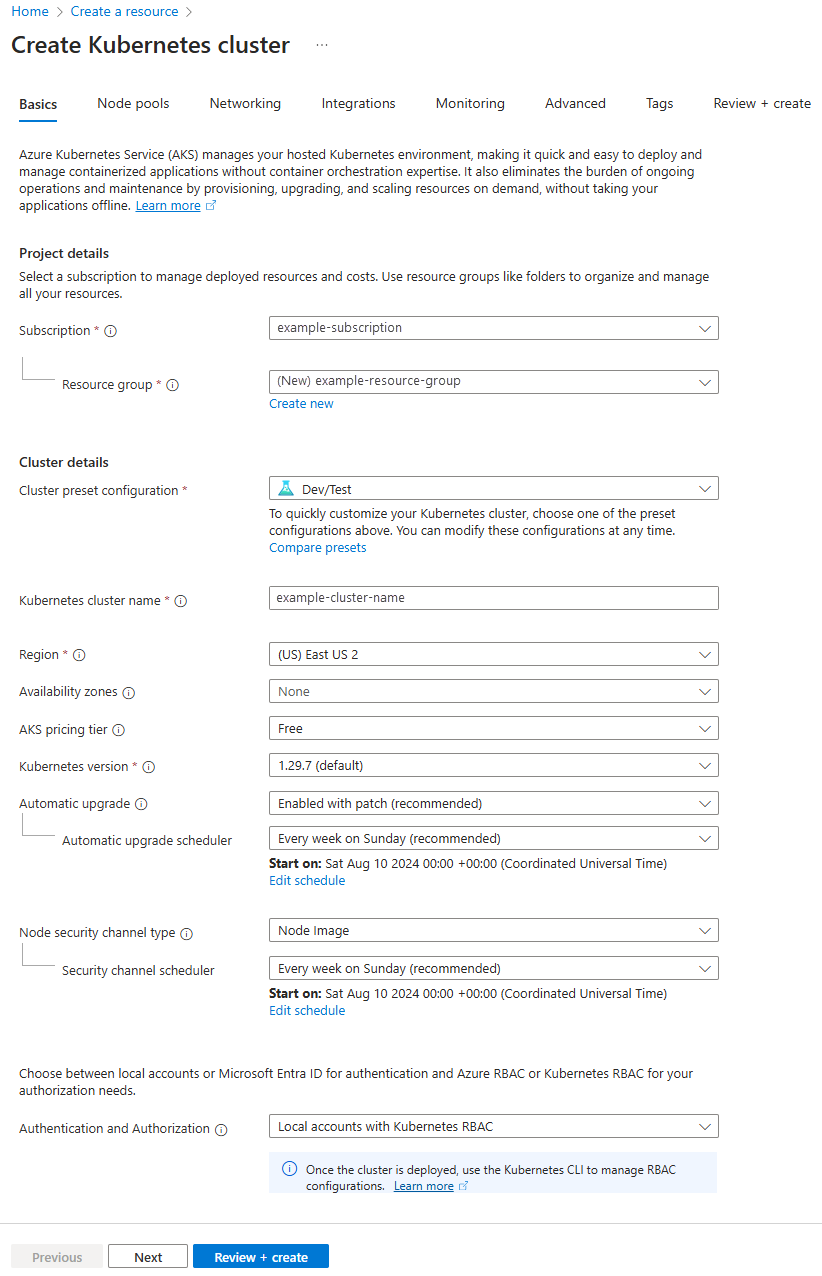
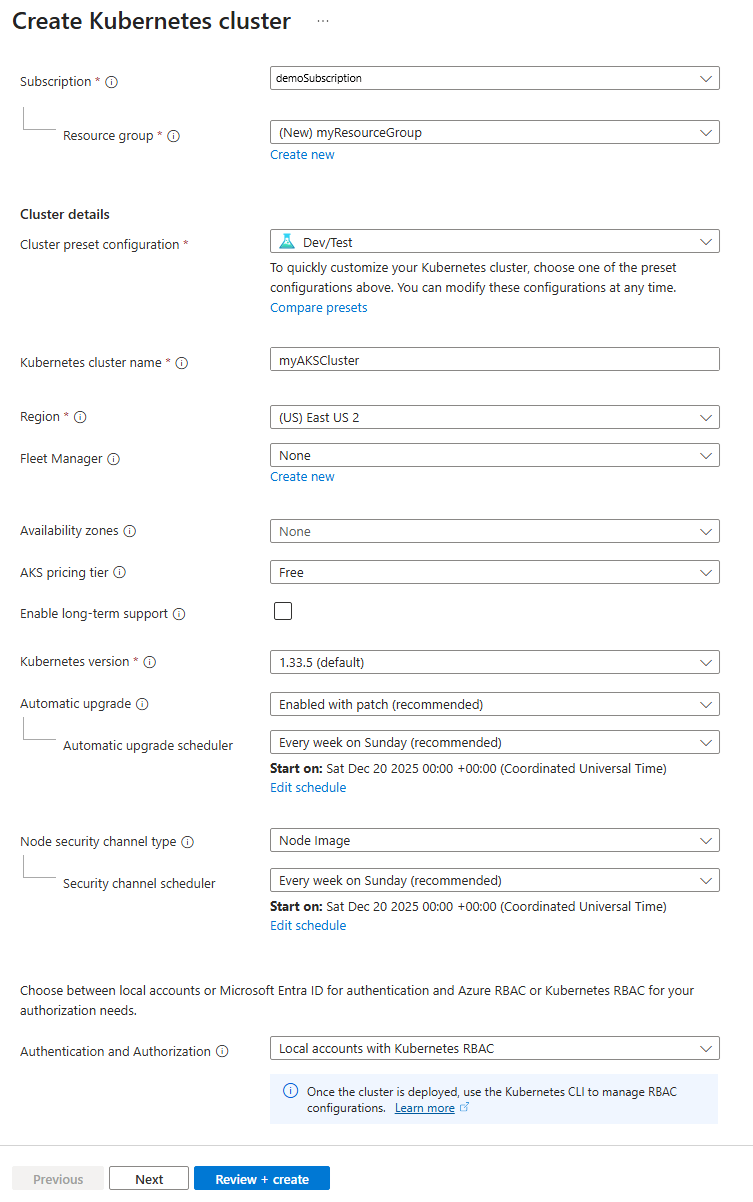
updates content and images

diff --git a/articles/aks/auto-upgrade-cluster.md b/articles/aks/auto-upgrade-cluster.md
@@ -5,7 +5,7 @@ ms.topic: how-to
 ms.author: davidsmatlak
 author: davidsmatlak
 ms.subservice: aks-upgrade
-ms.date: 04/06/2025
+ms.date: 12/19/2025
 ms.custom: aks-upgrade, automation, innovation-engine
 # Customer intent: "As a DevOps engineer, I want to enable automatic upgrades for my Kubernetes clusters, so that I can ensure my environment remains secure and up to date without manual intervention."
 ---
@@ -15,7 +15,7 @@ ms.custom: aks-upgrade, automation, innovation-engine
 > [!div class="nextstepaction"]
 > [Deploy and Explore](https://go.microsoft.com/fwlink/?linkid=2321740)
 
-Part of the AKS cluster lifecycle involves performing periodic upgrades to the latest Kubernetes version. It’s important you apply the latest security releases or upgrade to get the latest features. Before learning about auto-upgrade, make sure you understand the [AKS cluster upgrade fundamentals][upgrade-aks-cluster].
+Part of the AKS cluster lifecycle involves performing periodic upgrades to the latest Kubernetes version. It's important you apply the latest security releases or upgrade to get the latest features. Before learning about auto-upgrade, make sure you understand the [AKS cluster upgrade fundamentals][upgrade-aks-cluster].
 
 > [!NOTE]
 > Any upgrade operation, whether performed manually or automatically, upgrades the node image version if it's not already on the latest version. The latest version is contingent on a full AKS release and can be determined by visiting the [AKS release tracker][release-tracker].
@@ -36,7 +36,7 @@ AKS also initiates auto-upgrades for unsupported clusters. When a cluster in an 
 
 ## Cluster auto-upgrade limitations
 
-If you’re using cluster auto-upgrade, you can no longer upgrade the control plane first, and then upgrade the individual node pools. Cluster auto-upgrade always upgrades the control plane and the node pools together. You can't upgrade the control plane only. Running the `az aks upgrade --control-plane-only` command raises the following error: `NotAllAgentPoolOrchestratorVersionSpecifiedAndUnchanged: Using managed cluster api, all Agent pools' OrchestratorVersion must be all specified or all unspecified. If all specified, they must be stay unchanged or the same with control plane.`
+If you're using cluster auto-upgrade, you can no longer upgrade the control plane first, and then upgrade the individual node pools. Cluster auto-upgrade always upgrades the control plane and the node pools together. You can't upgrade the control plane only. Running the `az aks upgrade --control-plane-only` command raises the following error: `NotAllAgentPoolOrchestratorVersionSpecifiedAndUnchanged: Using managed cluster api, all Agent pools' OrchestratorVersion must be all specified or all unspecified. If all specified, they must be stay unchanged or the same with control plane.`
 
 If using the `node-image` (legacy and not to be used) cluster auto-upgrade channel or the `NodeImage` node image auto-upgrade channel, Linux [unattended upgrades][unattended-upgrades] are disabled by default.
 
@@ -52,29 +52,29 @@ The following upgrade channels are available:
 | `patch`| automatically upgrades the cluster to the latest supported patch version when it becomes available while keeping the minor version the same.| For example, if a cluster runs version *1.17.7*, and versions *1.17.9*, *1.18.4*, *1.18.6*, and *1.19.1* are available, the cluster upgrades to *1.17.9*.|
 | `stable`| automatically upgrades the cluster to the latest supported patch release on minor version *N-1*, where *N* is the latest supported minor version.| For example, if a cluster runs version *1.17.7* and versions *1.17.9*, *1.18.4*, *1.18.6*, and *1.19.1* are available, the cluster upgrades to *1.18.6*.|
 | `rapid`| automatically upgrades the cluster to the latest supported patch release on the latest supported minor version.| In cases where the cluster's Kubernetes version is an *N-2* minor version, where *N* is the latest supported minor version, the cluster first upgrades to the latest supported patch version on *N-1* minor version. For example, if a cluster runs version *1.17.7* and versions *1.17.9*, *1.18.4*, *1.18.6*, and *1.19.1* are available, the cluster first upgrades to *1.18.6*, then upgrades to *1.19.1*.|
-| `node-image`(legacy)| automatically upgrades the node image to the latest version available.| Microsoft provides patches and new images for image nodes frequently (usually weekly), but your running nodes don't get the new images unless you do a node image upgrade. Turning on the node-image channel automatically updates your node images whenever a new version is available. If you use this channel, Linux [unattended upgrades] are disabled by default. Node image upgrades work on patch versions that are deprecated, so long as the minor Kubernetes version is still supported. This channel is no longer recommended and is planned for deprecation in future. For an option that can automatically upgrade node images, see the `NodeImage` channel in [node image auto-upgrade][node-image-auto-upgrade]. |
+| `node-image`(legacy)| automatically upgrades the node image to the latest version available.| Microsoft provides patches and new images for image nodes frequently (weekly), but your running nodes don't get the new images unless you do a node image upgrade. Turning on the node-image channel automatically updates your node images whenever a new version is available. If you use this channel, Linux [unattended upgrades] are disabled by default. Node image upgrades work on patch versions that are deprecated, so long as the minor Kubernetes version is still supported. This channel is no longer recommended and is planned for deprecation in future. For an option that can automatically upgrade node images, see the `NodeImage` channel in [node image auto-upgrade][node-image-auto-upgrade]. |
 
 > [!NOTE]
 >
 > Keep the following information in mind when using cluster auto-upgrade:
 >
-> * Cluster auto-upgrade only updates to GA versions of Kubernetes and doesn't update to preview versions.
+> - Cluster auto-upgrade only updates to GA versions of Kubernetes and doesn't update to preview versions.
 >
-> * With AKS, you can create a cluster without specifying the exact patch version. When you create a cluster without designating a patch, the cluster runs the minor version's latest GA patch. To learn more, see [AKS support window][supported-kubernetes-versions].
+> - With AKS, you can create a cluster without specifying the exact patch version. When you create a cluster without designating a patch, the cluster runs the minor version's latest GA patch. To learn more, see [AKS support window][supported-kubernetes-versions].
 >
-> * Auto-upgrade requires the cluster's Kubernetes version to be within the [AKS support window][supported-kubernetes-versions], even if using the `node-image` channel.
+> - Auto-upgrade requires the cluster's Kubernetes version to be within the [AKS support window][supported-kubernetes-versions], even if using the `node-image` channel.
 >
-> * If you're using the preview API `11-02-preview` or later, and you select the `node-image` cluster auto-upgrade channel, the [node image auto-upgrade channel][node-image-auto-upgrade] automatically sets to `NodeImage`.
+> - If you're using the preview API `11-02-preview` or later, and you select the `node-image` cluster auto-upgrade channel, the [node image auto-upgrade channel][node-image-auto-upgrade] automatically sets to `NodeImage`.
 >
-> * Each cluster can only be associated with a single auto-upgrade channel. This is because your specified channel determines the Kubernetes version that runs on the cluster.
->   
-> * If your cluster has no auto-upgrade channel and you enable it for LTS *(Long-Term Support)*, it will default to a `patch` auto-upgrade channel.
+> - Each cluster can only be associated with a single auto-upgrade channel. The reason is because your specified channel determines the Kubernetes version that runs on the cluster.
+>
+> - If your cluster has no auto-upgrade channel and you enable it for Long-Term Support (LTS), the cluster defaults to a `patch` auto-upgrade channel.
 
 ## Use cluster auto-upgrade with a new AKS cluster
 
 ### [Azure CLI](#tab/azure-cli)
 
-* Set the auto-upgrade channel when creating a new cluster using the [`az aks create`][az-aks-create] command and the `auto-upgrade-channel` parameter.
+Set the auto-upgrade channel when creating a new cluster using the [`az aks create`][az-aks-create] command and the `auto-upgrade-channel` parameter.
 
 ```text
 export RANDOM_SUFFIX=$(openssl rand -hex 3)
@@ -86,11 +86,11 @@ az aks create --resource-group $RESOURCE_GROUP --name $AKS_CLUSTER_NAME --auto-u
 ### [Azure portal](#tab/azure-portal)
 
 1. In the Azure portal, select **Create a resource** > **Containers** > **Azure Kubernetes Service (AKS)**.
-2. In the **Basics** tab, under **Cluster details**, select the desired auto-upgrade channel from the **Automatic upgrade** dropdown. We recommend selecting the **Enabled with patch (recommended)** option.
+1. In the **Basics** tab, under **Cluster details**, select the desired auto-upgrade channel from the **Automatic upgrade** dropdown. We recommend selecting the **Enabled with patch (recommended)** option.
 
-    :::image type="content" source="./media/auto-upgrade-cluster/portal-autoupgrade-new-cluster.png" alt-text="The screenshot of the create blade for an AKS cluster in the Azure portal. The automatic upgrade field shows 'Enabled with patch (recommended)' selected.":::
+    :::image type="content" source="./media/auto-upgrade-cluster/portal-autoupgrade-new-cluster.png" alt-text="Screenshot of the automatic upgrade field that shows Enabled with patch (recommended) selected.":::
 
-3. Complete the remaining steps to create the cluster.
+1. To create the cluster, complete the remaining steps.
 
 ---
 
@@ -98,7 +98,7 @@ az aks create --resource-group $RESOURCE_GROUP --name $AKS_CLUSTER_NAME --auto-u
 
 ### [Azure CLI](#tab/azure-cli)
 
-* Set the auto-upgrade channel on an existing cluster using the [`az aks update`][az-aks-update] command with the `auto-upgrade-channel` parameter.
+Set the auto-upgrade channel on an existing cluster using the [`az aks update`][az-aks-update] command with the `auto-upgrade-channel` parameter.
 
 ```azurecli-interactive
 az aks update --resource-group $RESOURCE_GROUP --name $AKS_CLUSTER_NAME --auto-upgrade-channel stable
@@ -120,17 +120,17 @@ Results:
 
 ### [Azure portal](#tab/azure-portal)
 
-1. In the Azure portal, navigate to your AKS cluster.
-2. In the service menu, under **Settings**, select **Cluster configuration**.
-3. Under **Upgrade** > **Kubernetes version**, select **Upgrade version**.
+1. In the Azure portal, go to your AKS cluster.
+1. In the service menu, under **Settings**, select **Upgrades**.
+1. Under **Upgrade** > **Kubernetes version**, select **Upgrade version**.
 
-    :::image type="content" source="./media/auto-upgrade-cluster/portal-autoupgrade-existing-cluster.png" alt-text="The screenshot of the upgrade blade for an AKS cluster in the Azure portal.":::
+    :::image type="content" source="./media/auto-upgrade-cluster/portal-autoupgrade-existing-cluster.png" alt-text="Screenshot of the upgrade cluster page for an AKS cluster in the Azure portal.":::
 
-4. On the **Upgrade Kubernetes version** page, select the desired auto-upgrade channel from the **Automatic upgrade** dropdown. We recommend selecting the **Enabled with patch (recommended)** option.
+1. On the **Upgrade Kubernetes version** page, select the desired auto-upgrade channel from the **Automatic upgrade** dropdown. We recommend selecting the **Enabled with patch (recommended)** option.
 
-    :::image type="content" source="./media/auto-upgrade-cluster/portal-autoupgrade-upgrade-page-existing-cluster.png" alt-text="The screenshot of the Upgrade Kubernetes page for an AKS cluster in the Azure portal.":::
+    :::image type="content" source="./media/auto-upgrade-cluster/portal-autoupgrade-upgrade-page-existing-cluster.png" alt-text="Screenshot of the Upgrade Kubernetes version page for an AKS cluster in the Azure portal.":::
 
-5. Select **Save**.
+1. Select **Save**.
 
 ---
 
@@ -147,12 +147,12 @@ For more information on how to set a maintenance window with Planned Maintenance
 
 Use the following best practices to help maximize your success when using auto-upgrade:
 
-* To ensure your cluster is always in a supported version (i.e within the N-2 rule), choose either `stable` or `rapid` channels.
-* If you're interested in getting the latest patches as soon as possible, use the `patch` channel. The `node-image` channel is a good fit if you want your agent pools to always run the most recent node images.
-* To automatically upgrade node images while using a different cluster upgrade channel, consider using the [node image auto-upgrade][node-image-auto-upgrade] `NodeImage` channel.
-* Follow [Operator best practices][operator-best-practices-scheduler].
-* Follow [PDB best practices][pdb-best-practices].
-* For upgrade troubleshooting information, see the [AKS troubleshooting documentation][aks-troubleshoot-docs].
+- To ensure your cluster is always in a supported version, for example within the N-2 rule, choose either `stable` or `rapid` channels.
+- If you're interested in getting the latest patches as soon as possible, use the `patch` channel. The `node-image` channel is a good fit if you want your agent pools to always run the most recent node images.
+- To automatically upgrade node images while using a different cluster upgrade channel, consider using the [node image auto-upgrade][node-image-auto-upgrade] `NodeImage` channel.
+- Follow [Operator best practices][operator-best-practices-scheduler].
+- Follow [PodDisruptionBudget (PDB) best practices][pdb-best-practices].
+- For upgrade troubleshooting information, see the [AKS troubleshooting documentation][aks-troubleshoot-docs].
 
 For a detailed discussion of upgrade best practices and other considerations, see [AKS patch and upgrade guidance][upgrade-operators-guide].
 

diff --git a/articles/aks/learn/quick-kubernetes-deploy-portal.md b/articles/aks/learn/quick-kubernetes-deploy-portal.md
@@ -3,7 +3,7 @@ title: 'Quickstart: Deploy an Azure Kubernetes Service (AKS) cluster using the A
 titleSuffix: Azure Kubernetes Service
 description: Learn how to quickly deploy a Kubernetes cluster and deploy an application in Azure Kubernetes Service (AKS) using the Azure portal.
 ms.topic: quickstart
-ms.date: 05/13/2024
+ms.date: 12/19/2025
 ms.custom: mvc, mode-ui
 ms.author: schaffererin
 author: schaffererin
@@ -28,7 +28,7 @@ This quickstart assumes a basic understanding of Kubernetes concepts. For more i
 
 - [!INCLUDE [quickstarts-free-trial-note](~/reusable-content/ce-skilling/azure/includes/quickstarts-free-trial-note.md)]
 - If you're unfamiliar with the Azure Cloud Shell, review [Overview of Azure Cloud Shell](/azure/cloud-shell/overview).
-- Make sure that the identity you use to create your cluster has the appropriate minimum permissions. For more details on access and identity for AKS, see [Access and identity options for Azure Kubernetes Service (AKS)](../concepts-identity.md).
+- Make sure that the identity you use to create your cluster has the appropriate minimum permissions. For more information about access and identity for AKS, see [Access and identity options for Azure Kubernetes Service (AKS)](../concepts-identity.md).
 
 [!INCLUDE [azure linux 2.0 retirement](../includes/azure-linux-retirement.md)]
 
@@ -36,34 +36,34 @@ This quickstart assumes a basic understanding of Kubernetes concepts. For more i
 
 1. Sign in to the [Azure portal][azure-portal].
 1. On the Azure portal home page, select **Create a resource**.
-1. In the **Categories** section, select **Containers** > **Azure Kubernetes Service (AKS)**.
+1. In the **Categories** section, select **Infrastructure Services** > **Azure Kubernetes Service (AKS)**.
 1. On the **Basics** tab, configure the following settings:
     - Under **Project details**:
         - **Subscription**: Select the Azure subscription you want to use for this AKS cluster.
-        - **Resource group**: Select **Create new**, enter a resource group name, such as *myResourceGroup*, and then select **Ok**. While you can select an existing resource group, for testing or evaluation purposes, we recommend creating a resource group to temporarily host these resources and avoid impacting your production or development workloads.
+        - **Resource group**: Select **Create new**, enter a resource group name, like _myResourceGroup_, and then select **Ok**. While you can select an existing resource group, for testing or evaluation purposes, we recommend creating a resource group to temporarily host these resources and avoid impacting your production or development workloads.
     - Under **Cluster details**:
-      - **Cluster preset configuration**: Select **Dev/Test**. For more details on preset configurations, see [Cluster configuration presets in the Azure portal][preset-config].
+      - **Cluster preset configuration**: Select **Dev/Test**. For more details about preset configurations, see [Cluster configuration presets in the Azure portal][preset-config]. You can change the preset configuration when creating your cluster by selecting **Compare presets** and choosing a different option.
 
-        > [!NOTE]
-        > You can change the preset configuration when creating your cluster by selecting **Compare presets** and choosing a different option.
-        > :::image type="content" source="media/quick-kubernetes-deploy-portal/cluster-presets.png" alt-text="Screenshot of Create AKS cluster - portal preset options." lightbox="media/quick-kubernetes-deploy-portal/cluster-presets.png":::
+      :::image type="content" source="media/quick-kubernetes-deploy-portal/cluster-presets.png" alt-text="Screenshot of Create AKS cluster - portal preset options." lightbox="media/quick-kubernetes-deploy-portal/cluster-presets.png":::
 
-      - **Kubernetes cluster name**: Enter a cluster name, such as *myAKSCluster*.
-      - **Region**: Select a region, such as *East US 2*.
-      - **Availability zones**: Select **None**.
+      - **Kubernetes cluster name**: Enter a cluster name, like _myAKSCluster_.
+      - **Region**: Select a region, like _East US 2_.
+      - **Fleet manager**: **None**
+      - **Availability zones**: **None**. Deselect any selected zones.
       - **AKS pricing tier**: Select **Free**.
       - Leave the default values for the remaining settings, and select **Next**.
 
         :::image type="content" source="media/quick-kubernetes-deploy-portal/create-cluster.png" alt-text="Screenshot showing how to configure an AKS cluster in Azure portal." lightbox="media/quick-kubernetes-deploy-portal/create-cluster.png":::
 
 1. On the **Node pools** tab, configure the following settings:
-    - Select **Add node pool** and enter a **Node pool name**, such as *nplinux*.
+    - Select **Add node pool** and select **Add a Virtual Machine Scale Set node pool**
+    - **Name**: Enter a name like _nplinux_.
     - **Mode**: Select **User**.
     - **OS SKU**: Select **Ubuntu Linux**.
     - **Availability zones**: Select **None**.
     - Leave the **Enable Azure Spot instances** checkbox unchecked.
-    - **Node size**: Select **Choose a size**. On the **Select a VM size** page, select **D2s_v3**, and then select **Select**.
-    - Leave the default values for the remaining settings, and select **Add**.
+    - **Node size**: Select **Choose a size**. On the **Select a VM size** page, search for **D2s_v5**, select that VM size, and **Select**.
+    - Use the default values for the remaining settings, and select **Add**.
 
         :::image type="content" source="media/quick-kubernetes-deploy-portal/create-linux-node-pool.png" alt-text="Screenshot showing how to create a node pool running Ubuntu Linux." lightbox="media/quick-kubernetes-deploy-portal/create-linux-node-pool.png":::
 
@@ -123,7 +123,7 @@ If you're using Cloud Shell, open it with the `>_` button on the top of the Azur
 
 ## Deploy the application
 
-You use a manifest file to create all the objects required to run the [AKS Store application](https://github.com/Azure-Samples/aks-store-demo). A Kubernetes manifest file defines a cluster's desired state, such as which container images to run. The manifest includes the following Kubernetes deployments and services:
+You use a manifest file to create all the objects required to run the [AKS Store application](https://github.com/Azure-Samples/aks-store-demo). A Kubernetes manifest file defines a cluster's desired state, like which container images to run. The manifest includes the following Kubernetes deployments and services:
 
 :::image type="content" source="media/quick-kubernetes-deploy-portal/aks-store-architecture.png" alt-text="Screenshot of Azure Store sample architecture." lightbox="media/quick-kubernetes-deploy-portal/aks-store-architecture.png":::
 
@@ -133,10 +133,10 @@ You use a manifest file to create all the objects required to run the [AKS Store
 - **Rabbit MQ**: Message queue for an order queue.
 
 > [!NOTE]
-> We don't recommend running stateful containers, such as Rabbit MQ, without persistent storage for production. These are used here for simplicity, but we recommend using managed services, such as Azure CosmosDB or Azure Service Bus.
+> We don't recommend running stateful containers, like Rabbit MQ, without persistent storage for production. These containers are used here for simplicity, but we recommend using managed services, like Azure Cosmos DB or Azure Service Bus.
 
 1. In the Cloud Shell, open an editor and create a file named `aks-store-quickstart.yaml`.
-2. Paste the following manifest into the editor:
+1. Paste the following manifest into the editor:
 
     ```YAML
     apiVersion: apps/v1
@@ -431,7 +431,7 @@ You use a manifest file to create all the objects required to run the [AKS Store
 
     If you create and save the YAML file locally, then you can upload the manifest file to your default directory in CloudShell by selecting the **Upload/Download files** button and selecting the file from your local file system.
 
-3. Deploy the application using the `kubectl apply` command and specify the name of your YAML manifest:
+1. Deploy the application using the `kubectl apply` command and specify the name of your YAML manifest:
 
     ```bash
     kubectl apply -f aks-store-quickstart.yaml

diff --git a/articles/aks/planned-maintenance.md b/articles/aks/planned-maintenance.md
@@ -3,7 +3,7 @@ title: Use Planned Maintenance to Schedule and Control Upgrades for Azure Kubern
 description: Learn how to use planned maintenance to schedule and control cluster and node image upgrades in Azure Kubernetes Service (AKS).
 ms.topic: how-to
 ms.custom: devx-track-azurecli
-ms.date: 05/29/2024
+ms.date: 12/19/2025
 ms.author: schaffererin
 ms.service: azure-kubernetes-service
 ms.subservice: aks-upgrade
@@ -170,9 +170,9 @@ az aks maintenanceconfiguration add --resource-group $RESOURCE_GROUP --cluster-n
 
 ### [Azure portal](#tab/azure-portal)
 
-1. In the Azure portal, navigate to your AKS cluster resource.
-1. From the service menu, under **Settings**, select **Cluster configuration**.
-1. Under **Upgrade** > **Automatic upgrade scheduler**, select **Add schedule**.
+1. In the Azure portal, go to your AKS cluster resource.
+1. From the service menu, under **Settings**, select **Upgrades**.
+1. Under **Upgrade** > **Automatic upgrade scheduler**, select **Add schedule**. For newer clusters, this option is labeled **Edit schedule**.
 
     :::image type="content" source="./media/planned-maintenance/add-schedule-portal.png" alt-text="Screenshot that shows the option to add a schedule in the Azure portal.":::
 
@@ -314,7 +314,7 @@ az aks maintenanceconfiguration update --resource-group $RESOURCE_GROUP --cluste
     }
     ```
 
-2. Update the maintenance window configuration using the [`az aks maintenanceconfiguration update`][az-aks-maintenanceconfiguration-update] command with the `--config-file` parameter:
+1. Update the maintenance window configuration using the [`az aks maintenanceconfiguration update`][az-aks-maintenanceconfiguration-update] command with the `--config-file` parameter:
 
     ```azurecli-interactive
     az aks maintenanceconfiguration update --resource-group $RESOURCE_GROUP --cluster-name $CLUSTER_NAME --name default --config-file ./default.json
@@ -414,7 +414,7 @@ az aks maintenanceconfiguration delete --resource-group $RESOURCE_GROUP --cluste
 ### How can I check the existing maintenance configurations in my cluster?
 
 Use the `az aks maintenanceconfiguration show` command.
-  
+
 ### Can reactive, unplanned maintenance happen during the `notAllowedDates` periods too?
 
 Yes. AKS reserves the right to break these windows for unplanned, reactive maintenance operations that are urgent or critical.
@@ -422,7 +422,7 @@ Yes. AKS reserves the right to break these windows for unplanned, reactive maint
 ### How can I tell if a maintenance event occurred?
 
 For releases, check your cluster's region and look up information in [weekly releases][release-tracker] to see if it matches your maintenance schedule. To view the status of your automatic upgrades, look up [activity logs][monitor-aks] on your cluster. You can also look up specific upgrade-related events, as mentioned in [Upgrade an AKS cluster][aks-upgrade].
-  
+
 AKS also emits upgrade-related Azure Event Grid events. To learn more, see [AKS as an Event Grid source][aks-eventgrid].
 
 ### Can I use more than one maintenance configuration at the same time?
@@ -444,9 +444,9 @@ Another reason why an agent pool could be upgraded unexpectedly is when there's 
 ### Are there any best practices for the maintenance configurations?
 
 We recommend setting the [node OS security updates][node-image-auto-upgrade] schedule to a weekly cadence if you're using the `NodeImage` channel, because a new node image is shipped every week. You can also opt in for the `SecurityPatch` channel to receive daily security updates.
-  
+
 You can set the [auto-upgrade][auto-upgrade] schedule to a monthly cadence to stay current with the Kubernetes N-2 [support policy][aks-support-policy].
-  
+
 For a detailed discussion of upgrade best practices and other considerations, see [AKS patch and upgrade guidance][upgrade-operators-guide].
 
 ### Can I configure all my clusters in a single subscription to use the same maintenance configuration?
